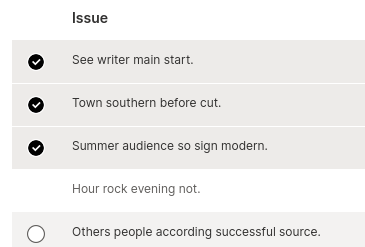
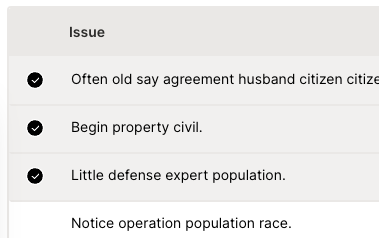
feat: Add highlight for selected groups/rows #1713 (#1725)

diff --git a/ui/src/table.tsx b/ui/src/table.tsx
@@ -423,14 +423,23 @@ const
         return (
           <Fluent.GroupHeader
             {...props}
-            styles={{
-              root: {
-                position: 'sticky',
-                top: 48,
-                backgroundColor: cssVar('$card'),
-                zIndex: 1
-              }
-            }} />
+            styles={stylesProps => ({
+              root: [
+                {
+                  position: 'sticky',
+                  top: 48,
+                  backgroundColor: cssVar('$card'),
+                  zIndex: 1
+                },
+                stylesProps.selected
+                  ? {
+                    background: important(cssVar('$neutralLighter')),
+                    '.ms-GroupHeader-check': { opacity: 1 }
+                  }
+                  : undefined
+              ]
+            })
+            } />
         )
       }, []),
       onToggleCollapseAll = (isAllCollapsed: B) => expandedRefs.current = isAllCollapsed ? {} : null,
@@ -444,21 +453,26 @@ const
         }
       },
       onRenderRow = (props?: Fluent.IDetailsRowProps) => props
-        ? <Fluent.DetailsRow {...props} styles={{
+        ? <Fluent.DetailsRow {...props} styles={styleProps =>
+        ({
           cell: { alignSelf: 'center', fontSize: 14, lineHeight: 20, color: cssVar('$text9') },
           checkCell: { display: 'flex', alignItems: 'center' },
-          root: {
-            width: '100%',
-            border: border(2, 'transparent'),
-            borderTop: border(2, cssVar('$neutralLight')),
-            background: cssVar('$card'),
-            minHeight: 48,
-            '&:hover': {
-              background: cssVar('$neutralLight'),
-              border: `${border(2, cssVar('$themePrimary'))} !important`,
-            }
-          }
-        }} />
+          root: [
+            {
+              width: '100%',
+              border: border(2, 'transparent'),
+              borderTop: border(2, cssVar('$neutralLight')),
+              background: cssVar('$card'),
+              minHeight: 48,
+              '&:hover': {
+                background: cssVar('$neutralLighter'),
+                border: important(border(2, cssVar('$themePrimary')))
+              }
+            },
+            styleProps.isSelected ? { background: cssVar('$neutralLighter') } : undefined
+          ]
+        })
+        } />
         : null,
       onItemInvoked = (item: Fluent.IObjectWithKey & Dict<any>) => {
         wave.args[m.name] = [item.key as S]
